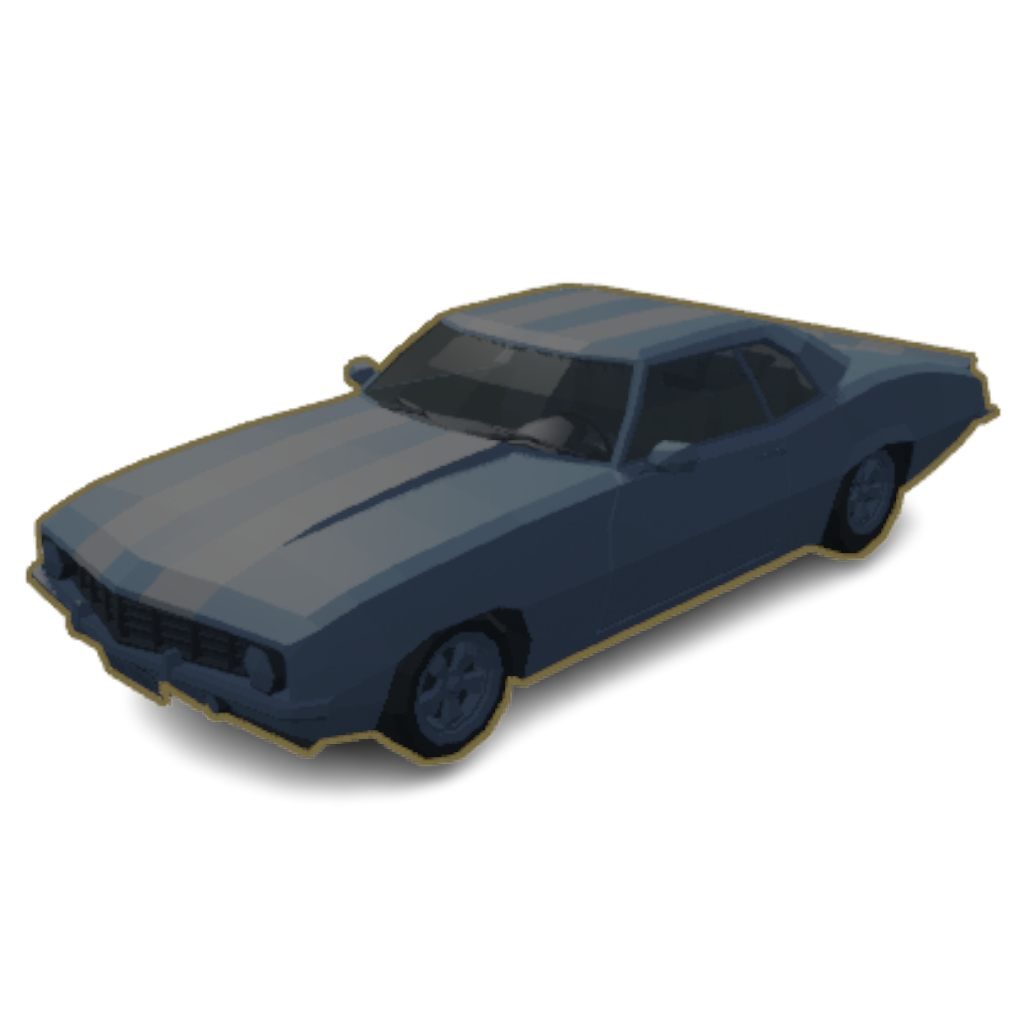
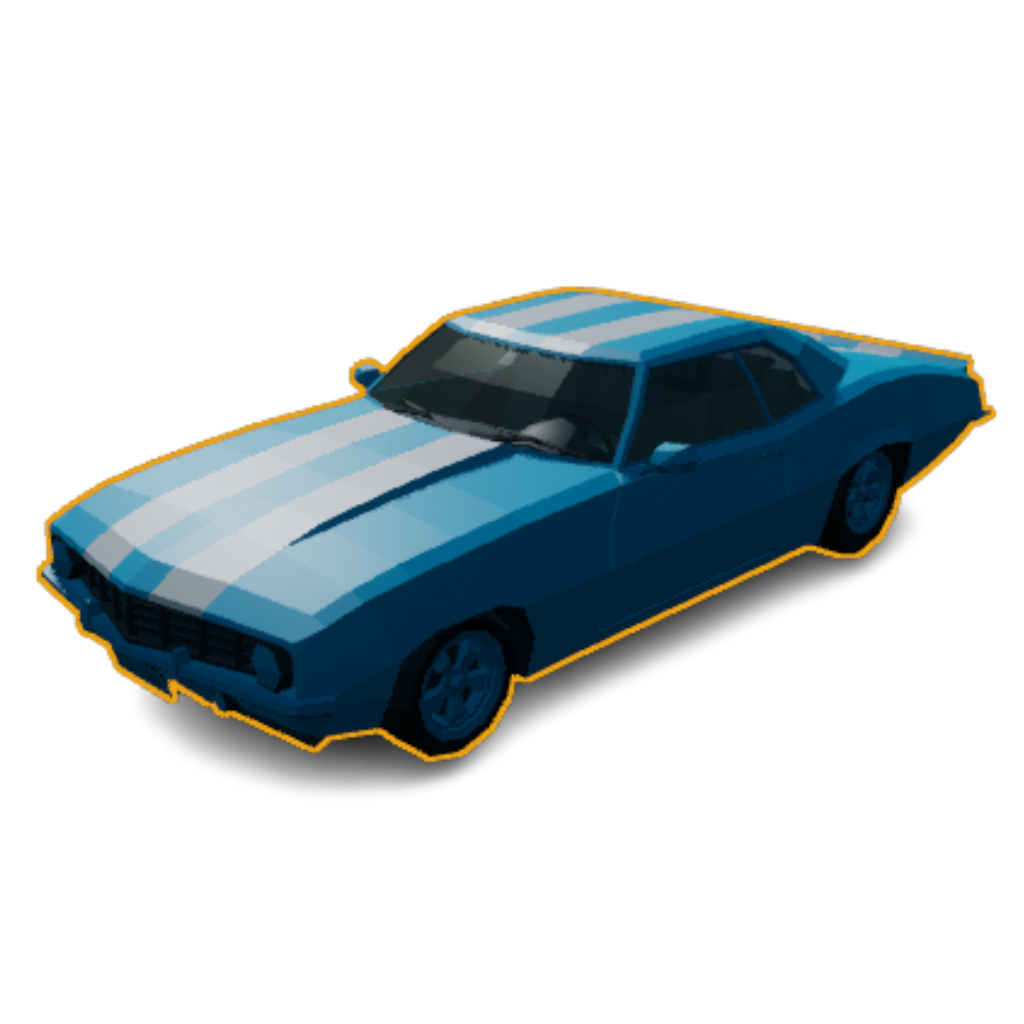
[UPDATE & ADD] Update CrazySuckRace (no more dark), Add Jenkins Skill

Changed region(s): [[0.0312, 0.25, 1.0, 0.75]]

diff --git a/index.html b/index.html
@@ -179,6 +179,10 @@ With a strong foundation in programming and problem-solving, I thrive on turning
 								<img src="images/Logo/Arduino.png" alt="Arduino Logo">
 								<p>Arduino IDE</p>
 							</div>
+							<div class="skill-item" data-link="https://www.jenkins.io/">
+								<img src="images/Logo/Jenkins.png" alt="Jenkins Logo">
+								<p>Jenkins</p>
+							</div>
 							<div class="skill-item" data-link="https://github.com/">
 								<img src="images/Logo/GitHub.png" alt="GitHub Logo">
 								<p>GitHub</p>
